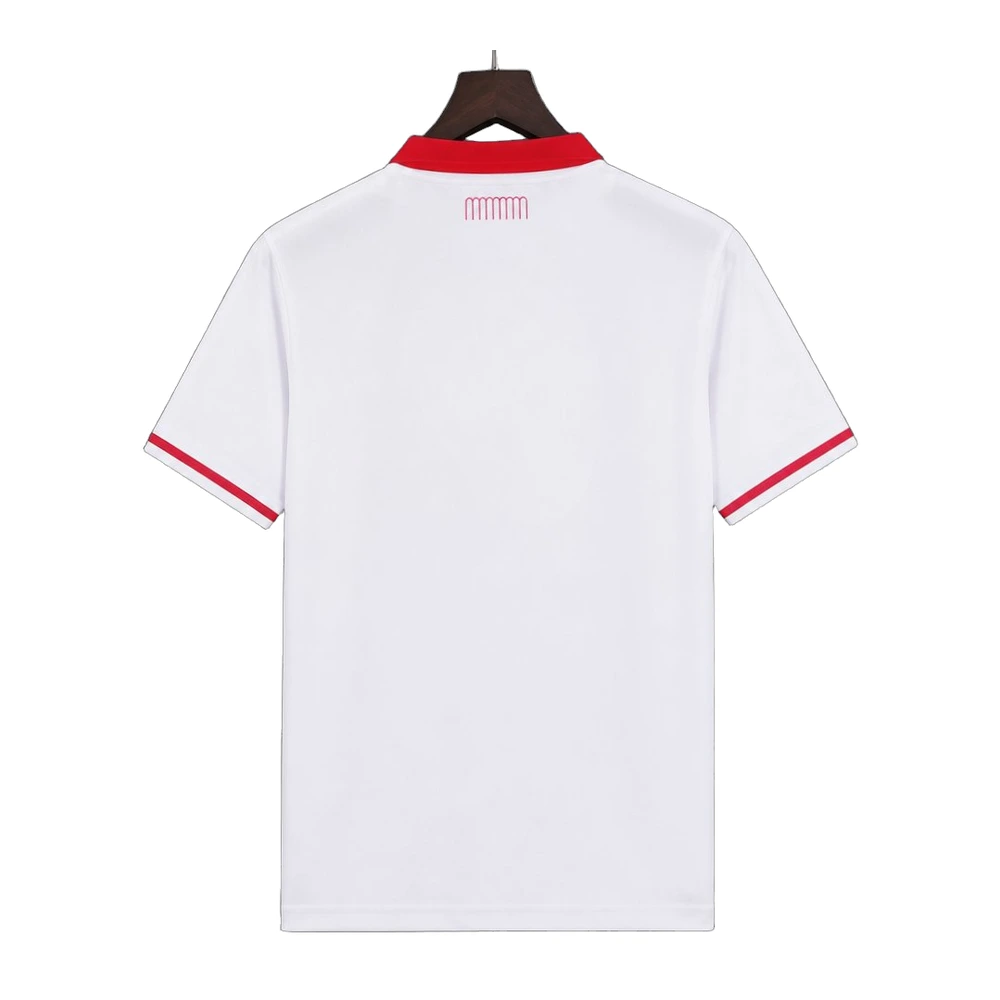
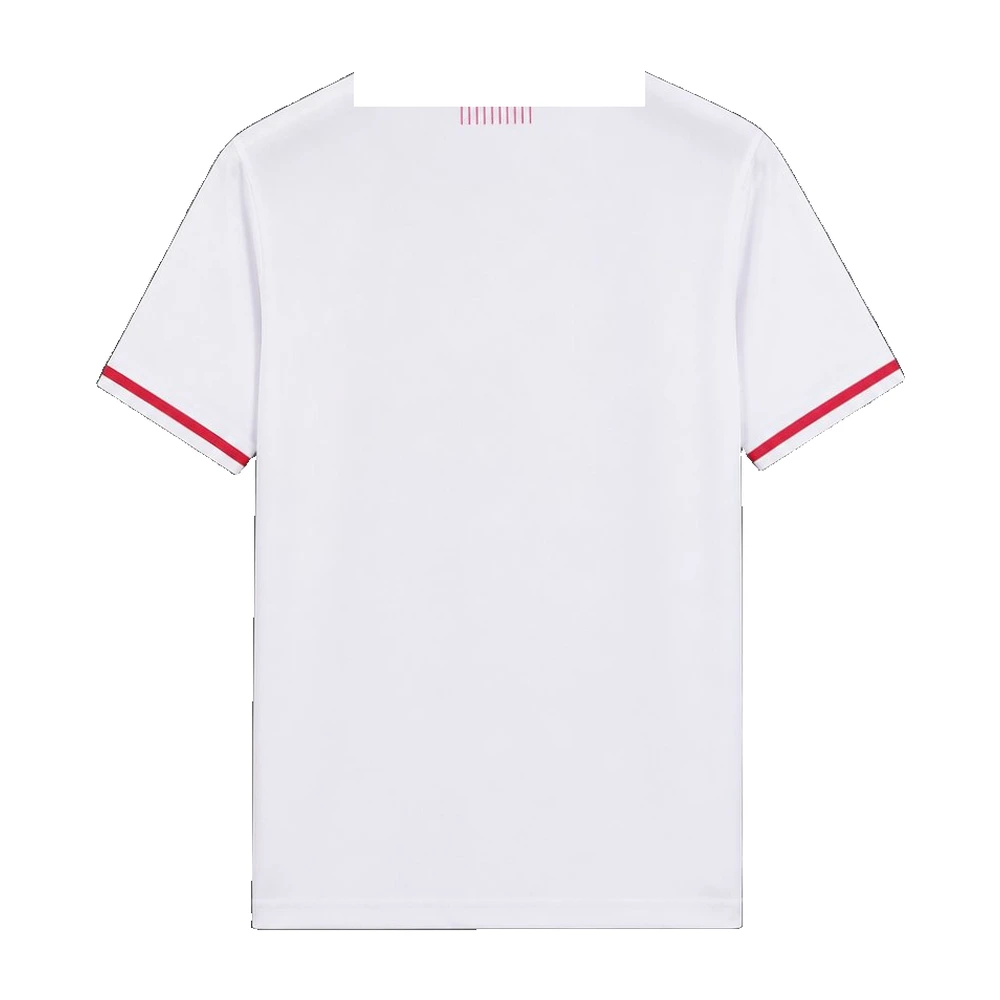
Ajoute la photo du dos pour 20 maillots qui n'en avaient qu'une, corrige 4 photos avec cintre/mannequin visible
Recherche des vraies photos du dos sur Yupoo pour : Argentine Extérieur 2006,
Liverpool Domicile 2005, Arsenal Domicile 1992-94, FC Porto (Domicile 25-26,
Domicile et Extérieur 26-27), Inter Miami Third, Ajax Domicile, Suède
(Domicile/Extérieur), Costa Rica, Danemark, Italie Extérieur, Sénégal
Extérieur, Hongrie Extérieur, Qatar, Chili, Venezuela, FC Copenhague,
FC Magdeburg.

Toutes les images (dont les 4 corrigées la session précédente : AS Monaco,
Wrexham, Sénégal Domicile, Norvège Third) sont retraitées pour supprimer
tout cintre ou mannequin visible, en ne conservant que le maillot avec son
col intact (détection géométrique du buste plutôt qu'une simple coupe
horizontale, qui abîmait le col).

Pas de photo du dos trouvée pour : Argentine Domicile 2006, Liverpool
Extérieur 1996-97 (manches longues), Japon Domicile 1993, Nouvelle-Zélande
Domicile 26-27, Corinthians Domicile 26-27. Émirats arabes unis Extérieur
26-27 retiré de la tentative d'ajout : seule photo dispo montre un
mannequin à bras articulés impossible à nettoyer proprement.

diff --git a/index.html b/index.html
@@ -1441,16 +1441,16 @@ const products = [
   { id:201, club:'Santos FC',             name:'Maillot Rétro',    season:'2011-2012', league:'Vintage', type:'vintage', emoji:'⚽', mainColor:'#FFFFFF', accentColor:'#000000', flocageColor:'#000000', frontImage:'images/santos-retro-1.jpg', carouselImages:['images/santos-retro-1.jpg','images/santos-retro-2.webp'] },
   /* ===== Soldes lot 8 : VINTAGE ===== */
   { id:505, club:'Argentine',             name:'Maillot Domicile', season:'2006', league:'Vintage', type:'vintage', emoji:'🇦🇷', mainColor:'#7BAFD4', accentColor:'#FFFFFF', stripeColor:'#FFFFFF', flocageColor:'#1A1A2E', frontImage:'images/argentine-home-2006-1.webp', carouselImages:['images/argentine-home-2006-1.webp'] },
-  { id:506, club:'Argentine',             name:'Maillot Extérieur', season:'2006', league:'Vintage', type:'vintage', emoji:'🇦🇷', mainColor:'#1B2A5A', accentColor:'#7BAFD4', flocageColor:'#FFFFFF', frontImage:'images/argentine-ext-2006-1.webp', carouselImages:['images/argentine-ext-2006-1.webp'] },
+  { id:506, club:'Argentine',             name:'Maillot Extérieur', season:'2006', league:'Vintage', type:'vintage', emoji:'🇦🇷', mainColor:'#1B2A5A', accentColor:'#7BAFD4', flocageColor:'#FFFFFF', frontImage:'images/argentine-ext-2006-1.webp', carouselImages:['images/argentine-ext-2006-1.webp','images/argentine-ext-2006-2.webp'] },
   { id:507, club:'Allemagne',             name:'Maillot Domicile', season:'2006', league:'Vintage', type:'vintage', emoji:'🇩🇪', mainColor:'#FFFFFF', accentColor:'#111111', flocageColor:'#111111', frontImage:'images/allemagne-home-2006-1.webp', carouselImages:['images/allemagne-home-2006-1.webp','images/allemagne-home-2006-2.webp'] },
   { id:508, club:'Allemagne',             name:'Maillot Extérieur', season:'1990', league:'Vintage', type:'vintage', emoji:'🇩🇪', mainColor:'#0E9E7E', accentColor:'#FFFFFF', flocageColor:'#FFFFFF', frontImage:'images/allemagne-ext-1990-1.webp', carouselImages:['images/allemagne-ext-1990-1.webp','images/allemagne-ext-1990-2.webp'] },
-  { id:509, club:'Liverpool',             name:'Maillot Domicile', season:'2005', league:'Vintage', type:'vintage', emoji:'⚽', mainColor:'#C8102E', accentColor:'#C9A227', flocageColor:'#FFFFFF', frontImage:'images/liverpool-istanbul-2005-1.webp', carouselImages:['images/liverpool-istanbul-2005-1.webp'] },
+  { id:509, club:'Liverpool',             name:'Maillot Domicile', season:'2005', league:'Vintage', type:'vintage', emoji:'⚽', mainColor:'#C8102E', accentColor:'#C9A227', flocageColor:'#FFFFFF', frontImage:'images/liverpool-istanbul-2005-1.webp', carouselImages:['images/liverpool-istanbul-2005-1.webp','images/liverpool-istanbul-2005-2.webp'] },
   { id:510, club:'Liverpool',             name:'Maillot Domicile', season:'1995-96', league:'Vintage', type:'vintage', emoji:'⚽', mainColor:'#C8102E', accentColor:'#FFFFFF', flocageColor:'#FFFFFF', frontImage:'images/liverpool-home-9596-1.webp', carouselImages:['images/liverpool-home-9596-1.webp','images/liverpool-home-9596-6.webp'] },
   { id:511, club:'Liverpool',             name:'Maillot Extérieur', season:'1995-96', league:'Vintage', type:'vintage', emoji:'⚽', mainColor:'#FFFFFF', accentColor:'#0E6E5E', flocageColor:'#0E6E5E', frontImage:'images/liverpool-ext-9596-1.webp', carouselImages:['images/liverpool-ext-9596-1.webp','images/liverpool-ext-9596-3.webp'] },
   { id:513, club:'Liverpool',             name:'Maillot Extérieur', season:'2000-01', league:'Vintage', type:'vintage', emoji:'⚽', mainColor:'#F5A623', accentColor:'#1B2A5A', flocageColor:'#1B2A5A', frontImage:'images/liverpool-ext-0001-1.webp', carouselImages:['images/liverpool-ext-0001-1.webp','images/liverpool-ext-0001-6.webp'] },
   { id:514, club:'Liverpool',             name:'Maillot Extérieur', season:'1996-97', league:'Vintage', type:'vintage', emoji:'⚽', mainColor:'#EDE3D0', accentColor:'#7A1F2B', flocageColor:'#7A1F2B', hasLongSleeve:true, frontImage:'images/liverpool-ext-9697ls-1.webp', carouselImages:['images/liverpool-ext-9697ls-1.webp'] },
   { id:515, club:'Manchester United',     name:'Maillot Extérieur', season:'1990-92', league:'Vintage', type:'vintage', emoji:'⚽', mainColor:'#D6E4F5', accentColor:'#1B2A5A', flocageColor:'#1B2A5A', frontImage:'images/manutd-ext-9092-1.webp', carouselImages:['images/manutd-ext-9092-1.webp','images/manutd-ext-9092-3.webp'] },
-  { id:516, club:'Arsenal',               name:'Maillot Domicile', season:'1992-94', league:'Vintage', type:'vintage', emoji:'⚽', mainColor:'#E4022D', accentColor:'#1B2A5A', flocageColor:'#FFFFFF', frontImage:'images/arsenal-home-9294-1.webp', carouselImages:['images/arsenal-home-9294-1.webp'] },
+  { id:516, club:'Arsenal',               name:'Maillot Domicile', season:'1992-94', league:'Vintage', type:'vintage', emoji:'⚽', mainColor:'#E4022D', accentColor:'#1B2A5A', flocageColor:'#FFFFFF', frontImage:'images/arsenal-home-9294-1.webp', carouselImages:['images/arsenal-home-9294-1.webp','images/arsenal-home-9294-2.webp'] },
   { id:517, club:'Japon',                 name:'Maillot Domicile', season:'1993', league:'Vintage', type:'vintage', emoji:'🇯🇵', mainColor:'#1B2FA8', accentColor:'#FFFFFF', flocageColor:'#FFFFFF', hasLongSleeve:true, frontImage:'images/japon-home-1993ls-1.webp', carouselImages:['images/japon-home-1993ls-1.webp'] },
   { id:2,  club:'Manchester City',        name:'Maillot Domicile', season:'2026-27', league:'Premier League', type:'standard', emoji:'👕', mainColor:'#6CABDD', accentColor:'#FFFFFF', flocageColor:'#FFFFFF', frontImage:'images/mc-home-1.jpg', carouselImages:['images/mc-home-1.jpg','images/mc-home-9.jpg'] },
   { id:368, club:'Manchester City',        name:'Maillot Domicile', season:'2025-26', league:'Premier League', type:'standard', emoji:'👕', mainColor:'#6CABDD', accentColor:'#FFFFFF', flocageColor:'#FFFFFF', frontImage:'images/mancity-home-2526-1.webp', carouselImages:['images/mancity-home-2526-1.webp','images/mancity-home-2526-2.webp'] },
@@ -1516,7 +1516,7 @@ const products = [
   { id:930, club:'Malaga', name:'Maillot Third', season:'2026-27', league:'Liga', type:'standard', emoji:'👕', mainColor:'#111111', accentColor:'#9B2FA6', flocageColor:'#2FC9A6', frontImage:'images/malaga-3rd-2627-1.webp', carouselImages:['images/malaga-3rd-2627-1.webp','images/malaga-3rd-2627-2.webp'] },
   { id:931, club:'Malaga', name:'Maillot Domicile', season:'2025-26', league:'Liga', type:'standard', emoji:'👕', mainColor:'#8FCBEA', accentColor:'#FFFFFF', flocageColor:'#1A2E7A', frontImage:'images/malaga-home-2526-1.webp', carouselImages:['images/malaga-home-2526-1.webp','images/malaga-home-2526-2.webp'] },
   { id:932, club:'Malaga', name:'Maillot Extérieur', season:'2025-26', league:'Liga', type:'standard', emoji:'👕', mainColor:'#111111', accentColor:'#E4179E', flocageColor:'#E4179E', frontImage:'images/malaga-ext-2526-1.webp', carouselImages:['images/malaga-ext-2526-1.webp','images/malaga-ext-2526-2.webp'] },
-  { id:499, club:'FC Porto',               name:'Maillot Domicile',  season:'2025-26', league:'Liga Portugal',  type:'standard', emoji:'👕', mainColor:'#003B8E', accentColor:'#FFFFFF', stripeColor:'#FFFFFF', flocageColor:'#FFFFFF', frontImage:'images/porto-home-2526-1.webp', carouselImages:['images/porto-home-2526-1.webp'] },
+  { id:499, club:'FC Porto',               name:'Maillot Domicile',  season:'2025-26', league:'Liga Portugal',  type:'standard', emoji:'👕', mainColor:'#003B8E', accentColor:'#FFFFFF', stripeColor:'#FFFFFF', flocageColor:'#FFFFFF', frontImage:'images/porto-home-2526-1.webp', carouselImages:['images/porto-home-2526-1.webp','images/porto-home-2526-2.webp'] },
   { id:500, club:'FC Porto',               name:'Maillot Third',     season:'2025-26', league:'Liga Portugal',  type:'standard', emoji:'👕', mainColor:'#F2EFE6', accentColor:'#003B8E', flocageColor:'#003B8E', frontImage:'images/porto-3rd-2526-1.webp', carouselImages:['images/porto-3rd-2526-1.webp','images/porto-3rd-2526-2.webp'] },
   { id:501, club:'FC Porto',               name:'Maillot Fourth',    season:'2025-26', league:'Liga Portugal',  type:'standard', emoji:'👕', mainColor:'#1B2A4A', accentColor:'#C9A227', flocageColor:'#C9A227', frontImage:'images/porto-4th-2526-1.webp', carouselImages:['images/porto-4th-2526-1.webp','images/porto-4th-2526-2.webp'] },
   { id:364, club:'Inter de Milan',         name:'Maillot Domicile', season:'2025-26', league:'Serie A',        type:'standard', emoji:'👕', mainColor:'#0A48A0', accentColor:'#000000', stripeColor:'#000000', flocageColor:'#E8B92E', frontImage:'images/inter-home-2526-1.webp', carouselImages:['images/inter-home-2526-1.webp','images/inter-home-2526-2.webp'] },
@@ -1577,7 +1577,7 @@ const products = [
   { id:557, club:'FC Barcelone',           name:'Maillot Third',     season:'2026-27', league:'Liga',          type:'standard', emoji:'👕', mainColor:'#3FD3C4', accentColor:'#1A2C7A', flocageColor:'#1A2C7A', frontImage:'images/barca-third-2627-1.webp', carouselImages:['images/barca-third-2627-1.webp','images/barca-third-2627-2.webp'] },
   { id:558, club:'États-Unis',             name:'Maillot Domicile',  season:'2026-27', league:'International', type:'standard', emoji:'🇺🇸', mainColor:'#F5F5F5', accentColor:'#B31942', flocageColor:'#0A3161', frontImage:'images/usa-dom-2627-1.webp', carouselImages:['images/usa-dom-2627-1.webp','images/usa-dom-2627-2.webp'] },
   { id:559, club:'États-Unis',             name:'Maillot Extérieur', season:'2026-27', league:'International', type:'standard', emoji:'🇺🇸', mainColor:'#0A1A3F', accentColor:'#B31942', flocageColor:'#FFFFFF', frontImage:'images/usa-ext-2627-1.webp', carouselImages:['images/usa-ext-2627-1.webp','images/usa-ext-2627-2.webp'] },
-  { id:562, club:'Inter Miami',            name:'Maillot Third',     season:'2026-27', league:'Reste du monde', subLeague:'MLS', type:'standard', emoji:'👕', mainColor:'#F5F5F5', accentColor:'#F7B5C4', flocageColor:'#111111', frontImage:'images/intermiami-3rd-2627-1.webp', carouselImages:['images/intermiami-3rd-2627-1.webp'] },
+  { id:562, club:'Inter Miami',            name:'Maillot Third',     season:'2026-27', league:'Reste du monde', subLeague:'MLS', type:'standard', emoji:'👕', mainColor:'#F5F5F5', accentColor:'#F7B5C4', flocageColor:'#111111', frontImage:'images/intermiami-3rd-2627-1.webp', carouselImages:['images/intermiami-3rd-2627-1.webp','images/intermiami-3rd-2627-2.webp'] },
   { id:564, club:'Tottenham',              name:'Maillot Third',     season:'2026-27', league:'Premier League', type:'standard', emoji:'👕', mainColor:'#6A2FA0', accentColor:'#FFFFFF', flocageColor:'#FFFFFF', frontImage:'images/tottenham-3rd-2627-1.webp', carouselImages:['images/tottenham-3rd-2627-1.webp','images/tottenham-3rd-2627-2.webp'] },
   { id:565, club:'Jamaïque',               name:'Maillot Domicile',  season:'2026-27', league:'International', type:'standard', emoji:'🇯🇲', mainColor:'#F4C94C', accentColor:'#1A1A2E', flocageColor:'#1A1A2E', frontImage:'images/jamaica-home-2627-1.webp', carouselImages:['images/jamaica-home-2627-1.webp','images/jamaica-home-2627-2.webp'] },
   { id:566, club:'Jamaïque',               name:'Maillot Extérieur', season:'2026-27', league:'International', type:'standard', emoji:'🇯🇲', mainColor:'#1A1A1A', accentColor:'#2E9E5B', flocageColor:'#F4C94C', frontImage:'images/jamaica-away-2627-1.webp', carouselImages:['images/jamaica-away-2627-1.webp','images/jamaica-away-2627-2.webp'] },
@@ -1621,9 +1621,9 @@ const products = [
   { id:11, club:'Benfica',                name:'Maillot Domicile', season:'2025-26', league:'Liga Portugal',  type:'standard', emoji:'👕', mainColor:'#E20B12', accentColor:'#FFFFFF', flocageColor:'#FFFFFF', frontImage:'images/benfica-home-2526-1.jpg', carouselImages:['images/benfica-home-2526-1.jpg','images/benfica-home-2526-2.jpg'] },
   { id:381, club:'Benfica',                name:'Maillot Extérieur', season:'2025-26', league:'Liga Portugal',  type:'standard', emoji:'👕', mainColor:'#F2EFE6', accentColor:'#E20B12', flocageColor:'#E20B12', frontImage:'images/benfica-ext-2526-1.jpg', carouselImages:['images/benfica-ext-2526-1.jpg','images/benfica-ext-2526-2.jpg'] },
   { id:384, club:'Benfica',                name:'Maillot Domicile', season:'2026-27', league:'Liga Portugal',  type:'standard', emoji:'👕', mainColor:'#E20B12', accentColor:'#FFFFFF', flocageColor:'#FFFFFF', frontImage:'images/benfica-home-2627-1.webp', carouselImages:['images/benfica-home-2627-1.webp','images/benfica-home-2627-2.webp'] },
-  { id:385, club:'FC Porto',               name:'Maillot Extérieur', season:'2026-27', league:'Liga Portugal',  type:'standard', emoji:'👕', mainColor:'#5E2751', accentColor:'#FFFFFF', flocageColor:'#FFFFFF', frontImage:'images/porto-ext-2627-1.webp', carouselImages:['images/porto-ext-2627-1.webp'] },
-  { id:12, club:'FC Porto',               name:'Maillot Domicile', season:'2026-27', league:'Liga Portugal',  type:'standard', emoji:'👕', mainColor:'#003B8E', accentColor:'#FFFFFF', flocageColor:'#FFFFFF', frontImage:'images/porto-home-26-1.jpg', carouselImages:['images/porto-home-26-1.jpg'] },
-  { id:378, club:'Ajax',                  name:'Maillot Domicile', season:'2026-27', league:'Eredivisie',    type:'standard', emoji:'👕', mainColor:'#FFFFFF', accentColor:'#E30613', flocageColor:'#111111', frontImage:'images/ajax-home-2627-1.webp', carouselImages:['images/ajax-home-2627-1.webp'] },
+  { id:385, club:'FC Porto',               name:'Maillot Extérieur', season:'2026-27', league:'Liga Portugal',  type:'standard', emoji:'👕', mainColor:'#5E2751', accentColor:'#FFFFFF', flocageColor:'#FFFFFF', frontImage:'images/porto-ext-2627-1.webp', carouselImages:['images/porto-ext-2627-1.webp','images/porto-ext-2627-2.webp'] },
+  { id:12, club:'FC Porto',               name:'Maillot Domicile', season:'2026-27', league:'Liga Portugal',  type:'standard', emoji:'👕', mainColor:'#003B8E', accentColor:'#FFFFFF', flocageColor:'#FFFFFF', frontImage:'images/porto-home-26-1.jpg', carouselImages:['images/porto-home-26-1.jpg','images/porto-home-26-2.webp'] },
+  { id:378, club:'Ajax',                  name:'Maillot Domicile', season:'2026-27', league:'Eredivisie',    type:'standard', emoji:'👕', mainColor:'#FFFFFF', accentColor:'#E30613', flocageColor:'#111111', frontImage:'images/ajax-home-2627-1.webp', carouselImages:['images/ajax-home-2627-1.webp','images/ajax-home-2627-2.webp'] },
   { id:386, club:'Feyenoord',              name:'Maillot Domicile', season:'2026-27', league:'Eredivisie',    type:'standard', emoji:'👕', mainColor:'#E30613', accentColor:'#FFFFFF', flocageColor:'#111111', frontImage:'images/feyenoord-home-2627-1.webp', carouselImages:['images/feyenoord-home-2627-1.webp','images/feyenoord-home-2627-2.webp'] },
   { id:388, club:'FC Utrecht',             name:'Maillot Extérieur', season:'2026-27', league:'Eredivisie',    type:'standard', emoji:'👕', mainColor:'#1C3D52', accentColor:'#FFFFFF', flocageColor:'#FFFFFF', frontImage:'images/utrecht-ext-2627-1.webp', carouselImages:['images/utrecht-ext-2627-1.webp','images/utrecht-ext-2627-2.webp'] },
   /* ===== INTERNATIONAL ===== */
@@ -1656,20 +1656,20 @@ const products = [
   { id:321, club:'Ghana',           name:'Maillot Extérieur', season:'2026-27', league:'International', type:'standard', emoji:'🇬🇭', mainColor:'#006B3F', accentColor:'#FCD116', flocageColor:'#FFFFFF', frontImage:'images/ghana-ext-26-1.webp', carouselImages:['images/ghana-ext-26-1.webp','images/ghana-ext-26-8.webp'] },
   { id:322, club:'Japon',           name:'Maillot Domicile',  season:'2026-27', league:'International', type:'standard', emoji:'🇯🇵', mainColor:'#003087', accentColor:'#FFFFFF', flocageColor:'#FFFFFF', frontImage:'images/japon-home-26-1.webp', carouselImages:['images/japon-home-26-1.webp','images/japon-home-26-7.webp'] },
   { id:323, club:'Japon',           name:'Maillot Extérieur', season:'2026-27', league:'International', type:'standard', emoji:'🇯🇵', mainColor:'#FFFFFF', accentColor:'#BC002D', flocageColor:'#BC002D', frontImage:'images/japon-ext-26-1.webp', carouselImages:['images/japon-ext-26-1.webp','images/japon-ext-26-8.webp'] },
-  { id:330, club:'Suède',           name:'Maillot Domicile',  season:'2026-27', league:'International', type:'standard', emoji:'🇸🇪', mainColor:'#FEDD00', accentColor:'#005BAC', flocageColor:'#005BAC', frontImage:'images/suede-home-26-1.webp', carouselImages:['images/suede-home-26-1.webp'] },
-  { id:331, club:'Suède',           name:'Maillot Extérieur', season:'2026-27', league:'International', type:'standard', emoji:'🇸🇪', mainColor:'#1A3EA8', accentColor:'#C9A227', flocageColor:'#C9A227', frontImage:'images/suede-ext-26-1.webp', carouselImages:['images/suede-ext-26-1.webp'] },
+  { id:330, club:'Suède',           name:'Maillot Domicile',  season:'2026-27', league:'International', type:'standard', emoji:'🇸🇪', mainColor:'#FEDD00', accentColor:'#005BAC', flocageColor:'#005BAC', frontImage:'images/suede-home-26-1.webp', carouselImages:['images/suede-home-26-1.webp','images/suede-home-26-2.webp'] },
+  { id:331, club:'Suède',           name:'Maillot Extérieur', season:'2026-27', league:'International', type:'standard', emoji:'🇸🇪', mainColor:'#1A3EA8', accentColor:'#C9A227', flocageColor:'#C9A227', frontImage:'images/suede-ext-26-1.webp', carouselImages:['images/suede-ext-26-1.webp','images/suede-ext-26-2.webp'] },
   { id:332, club:'Irak',            name:'Maillot Domicile',  season:'2026-27', league:'International', type:'standard', emoji:'🇮🇶', mainColor:'#FFFFFF', accentColor:'#111111', flocageColor:'#111111', frontImage:'images/irak-home-26-1.webp', carouselImages:['images/irak-home-26-1.webp','images/irak-home-26-2.webp'] },
   { id:333, club:'Irak',            name:'Maillot Extérieur', season:'2026-27', league:'International', type:'standard', emoji:'🇮🇶', mainColor:'#1E7A3D', accentColor:'#FFFFFF', flocageColor:'#FFFFFF', frontImage:'images/irak-ext-26-1.webp', carouselImages:['images/irak-ext-26-1.webp','images/irak-ext-26-2.webp'] },
   { id:335, club:'Colombie',        name:'Maillot Extérieur', season:'2026-27', league:'International', type:'standard', emoji:'🇨🇴', mainColor:'#1B9AC4', accentColor:'#1A2E7A', flocageColor:'#EFE32B', frontImage:'images/colombie-ext-26-1.webp', carouselImages:['images/colombie-ext-26-1.webp','images/colombie-ext-26-2.webp'] },
-  { id:336, club:'Costa Rica',      name:'Maillot Domicile',  season:'2026-27', league:'International', type:'standard', emoji:'🇨🇷', mainColor:'#D4122A', accentColor:'#16255A', flocageColor:'#FFFFFF', frontImage:'images/costarica-home-26-1.webp', carouselImages:['images/costarica-home-26-1.webp'] },
-  { id:337, club:'Danemark',        name:'Maillot Domicile',  season:'2026-27', league:'International', type:'standard', emoji:'🇩🇰', mainColor:'#C8102E', accentColor:'#FFFFFF', flocageColor:'#FFFFFF', frontImage:'images/danemark-home-26-1.webp', carouselImages:['images/danemark-home-26-1.webp'] },
+  { id:336, club:'Costa Rica',      name:'Maillot Domicile',  season:'2026-27', league:'International', type:'standard', emoji:'🇨🇷', mainColor:'#D4122A', accentColor:'#16255A', flocageColor:'#FFFFFF', frontImage:'images/costarica-home-26-1.webp', carouselImages:['images/costarica-home-26-1.webp','images/costarica-home-26-2.webp'] },
+  { id:337, club:'Danemark',        name:'Maillot Domicile',  season:'2026-27', league:'International', type:'standard', emoji:'🇩🇰', mainColor:'#C8102E', accentColor:'#FFFFFF', flocageColor:'#FFFFFF', frontImage:'images/danemark-home-26-1.webp', carouselImages:['images/danemark-home-26-1.webp','images/danemark-home-26-2.webp'] },
   { id:338, club:'Bosnie',          name:'Maillot Domicile',  season:'2026-27', league:'International', type:'standard', emoji:'🇧🇦', mainColor:'#1B2A6B', accentColor:'#FCD116', flocageColor:'#FCD116', frontImage:'images/bosnie-home-26-1.webp', carouselImages:['images/bosnie-home-26-1.webp','images/bosnie-home-26-2.webp'] },
   { id:340, club:'Pays-Bas',        name:'Maillot Extérieur', season:'2026-27', league:'International', type:'standard', emoji:'🇳🇱', mainColor:'#FFFFFF', accentColor:'#FF6600', flocageColor:'#FF6600', frontImage:'images/paysbas-ext-26-1.webp', carouselImages:['images/paysbas-ext-26-1.webp','images/paysbas-ext-26-7.webp'] },
-  { id:341, club:'Italie',          name:'Maillot Extérieur', season:'2026-27', league:'International', type:'standard', emoji:'🇮🇹', mainColor:'#EDEFF2', accentColor:'#1B2A5A', flocageColor:'#1B2A5A', frontImage:'images/italie-ext-26-1.webp', carouselImages:['images/italie-ext-26-1.webp'] },
-  { id:342, club:'Sénégal',         name:'Maillot Extérieur', season:'2026-27', league:'International', type:'standard', emoji:'🇸🇳', mainColor:'#009543', accentColor:'#FDEF42', flocageColor:'#FDEF42', frontImage:'images/senegal-ext-26-1.webp', carouselImages:['images/senegal-ext-26-1.webp'] },
+  { id:341, club:'Italie',          name:'Maillot Extérieur', season:'2026-27', league:'International', type:'standard', emoji:'🇮🇹', mainColor:'#EDEFF2', accentColor:'#1B2A5A', flocageColor:'#1B2A5A', frontImage:'images/italie-ext-26-1.webp', carouselImages:['images/italie-ext-26-1.webp','images/italie-ext-26-2.webp'] },
+  { id:342, club:'Sénégal',         name:'Maillot Extérieur', season:'2026-27', league:'International', type:'standard', emoji:'🇸🇳', mainColor:'#009543', accentColor:'#FDEF42', flocageColor:'#FDEF42', frontImage:'images/senegal-ext-26-1.webp', carouselImages:['images/senegal-ext-26-1.webp','images/senegal-ext-26-2.webp'] },
   { id:389, club:'Croatie',         name:'Maillot Extérieur', season:'2026-27', league:'International', type:'standard', emoji:'🇭🇷', mainColor:'#1E4CC7', accentColor:'#E20A17', flocageColor:'#FFFFFF', frontImage:'images/croatie-ext-2627-1.webp', carouselImages:['images/croatie-ext-2627-1.webp','images/croatie-ext-2627-6.webp'] },
   { id:390, club:'Turquie',         name:'Maillot Extérieur', season:'2026-27', league:'International', type:'standard', emoji:'🇹🇷', mainColor:'#FFFFFF', accentColor:'#E30A17', flocageColor:'#E30A17', frontImage:'images/turquie-ext-2627-1.webp', carouselImages:['images/turquie-ext-2627-1.webp','images/turquie-ext-2627-2.webp'] },
-  { id:448, club:'Hongrie',         name:'Maillot Extérieur', season:'2026-27', league:'International', type:'standard', emoji:'🇭🇺', mainColor:'#FFFFFF', accentColor:'#1B7A4B', flocageColor:'#C8102E', frontImage:'images/hongrie-ext-2627-1.webp', carouselImages:['images/hongrie-ext-2627-1.webp'] },
+  { id:448, club:'Hongrie',         name:'Maillot Extérieur', season:'2026-27', league:'International', type:'standard', emoji:'🇭🇺', mainColor:'#FFFFFF', accentColor:'#1B7A4B', flocageColor:'#C8102E', frontImage:'images/hongrie-ext-2627-1.webp', carouselImages:['images/hongrie-ext-2627-1.webp','images/hongrie-ext-2627-2.webp'] },
   { id:449, club:'Pologne',         name:'Maillot Domicile',  season:'2026-27', league:'International', type:'standard', emoji:'🇵🇱', mainColor:'#FFFFFF', accentColor:'#DC143C', flocageColor:'#DC143C', frontImage:'images/pologne-home-2627-1.webp', carouselImages:['images/pologne-home-2627-1.webp','images/pologne-home-2627-2.webp'] },
   { id:450, club:'Pologne',         name:'Maillot Extérieur', season:'2026-27', league:'International', type:'standard', emoji:'🇵🇱', mainColor:'#C8102E', accentColor:'#FFFFFF', flocageColor:'#FFFFFF', frontImage:'images/pologne-ext-2627-1.webp', carouselImages:['images/pologne-ext-2627-1.webp','images/pologne-ext-2627-2.webp'] },
   { id:451, club:'Nigéria',         name:'Maillot Domicile',  season:'2026-27', league:'International', type:'standard', emoji:'🇳🇬', mainColor:'#008751', accentColor:'#FFFFFF', flocageColor:'#FFFFFF', frontImage:'images/nigeria-home-2627-1.webp', carouselImages:['images/nigeria-home-2627-1.webp','images/nigeria-home-2627-3.webp'] },
@@ -1677,13 +1677,13 @@ const products = [
   { id:453, club:'Nigéria',         name:'Maillot Domicile',  season:'2024-25', league:'International', type:'standard', emoji:'🇳🇬', mainColor:'#FFFFFF', accentColor:'#008751', flocageColor:'#008751', frontImage:'images/nigeria-home-2425-1.webp', carouselImages:['images/nigeria-home-2425-1.webp','images/nigeria-home-2425-2.webp'] },
   { id:454, club:'Afrique du Sud',  name:'Maillot Domicile',  season:'2026-27', league:'International', type:'standard', emoji:'🇿🇦', mainColor:'#FFB612', accentColor:'#007A4D', flocageColor:'#007A4D', frontImage:'images/afriquesud-home-2627-1.webp', carouselImages:['images/afriquesud-home-2627-1.webp','images/afriquesud-home-2627-2.webp'] },
   { id:455, club:'Afrique du Sud',  name:'Maillot Extérieur', season:'2026-27', league:'International', type:'standard', emoji:'🇿🇦', mainColor:'#1B4D3E', accentColor:'#FFB612', flocageColor:'#FFB612', frontImage:'images/afriquesud-ext-2627-1.webp', carouselImages:['images/afriquesud-ext-2627-1.webp','images/afriquesud-ext-2627-2.webp'] },
-  { id:456, club:'Qatar',           name:'Maillot Domicile',  season:'2026-27', league:'International', type:'standard', emoji:'🇶🇦', mainColor:'#8A1538', accentColor:'#FFFFFF', flocageColor:'#FFFFFF', frontImage:'images/qatar-home-2627-1.webp', carouselImages:['images/qatar-home-2627-1.webp'] },
+  { id:456, club:'Qatar',           name:'Maillot Domicile',  season:'2026-27', league:'International', type:'standard', emoji:'🇶🇦', mainColor:'#8A1538', accentColor:'#FFFFFF', flocageColor:'#FFFFFF', frontImage:'images/qatar-home-2627-1.webp', carouselImages:['images/qatar-home-2627-1.webp','images/qatar-home-2627-2.webp'] },
   { id:458, club:'Émirats arabes unis', name:'Maillot Domicile', season:'2026-27', league:'International', type:'standard', emoji:'🇦🇪', mainColor:'#FFFFFF', accentColor:'#C8102E', flocageColor:'#C8102E', frontImage:'images/eau-home-2627-1.webp', carouselImages:['images/eau-home-2627-1.webp','images/eau-home-2627-2.webp'] },
   { id:459, club:'Émirats arabes unis', name:'Maillot Extérieur', season:'2026-27', league:'International', type:'standard', emoji:'🇦🇪', mainColor:'#C8102E', accentColor:'#FFFFFF', flocageColor:'#FFFFFF', frontImage:'images/eau-ext-2627-2.webp', carouselImages:['images/eau-ext-2627-2.webp'] },
   { id:460, club:'Pérou',           name:'Maillot Domicile',  season:'2026-27', league:'International', type:'standard', emoji:'🇵🇪', mainColor:'#FFFFFF', accentColor:'#D91023', flocageColor:'#D91023', frontImage:'images/perou-home-2627-1.webp', carouselImages:['images/perou-home-2627-1.webp','images/perou-home-2627-2.webp'] },
   { id:461, club:'Pérou',           name:'Maillot Extérieur', season:'2026-27', league:'International', type:'standard', emoji:'🇵🇪', mainColor:'#1A1A1A', accentColor:'#D91023', flocageColor:'#FFFFFF', frontImage:'images/perou-ext-2627-1.webp', carouselImages:['images/perou-ext-2627-1.webp','images/perou-ext-2627-2.webp'] },
-  { id:462, club:'Chili',           name:'Maillot Domicile',  season:'2026-27', league:'International', type:'standard', emoji:'🇨🇱', mainColor:'#D52B1E', accentColor:'#0039A6', flocageColor:'#FFFFFF', frontImage:'images/chili-home-2627-1.webp', carouselImages:['images/chili-home-2627-1.webp'] },
-  { id:463, club:'Venezuela',       name:'Maillot Domicile',  season:'2026-27', league:'International', type:'standard', emoji:'🇻🇪', mainColor:'#7A1B2B', accentColor:'#FFCE00', flocageColor:'#FFCE00', frontImage:'images/venezuela-home-2627-1.webp', carouselImages:['images/venezuela-home-2627-1.webp'] },
+  { id:462, club:'Chili',           name:'Maillot Domicile',  season:'2026-27', league:'International', type:'standard', emoji:'🇨🇱', mainColor:'#D52B1E', accentColor:'#0039A6', flocageColor:'#FFFFFF', frontImage:'images/chili-home-2627-1.webp', carouselImages:['images/chili-home-2627-1.webp','images/chili-home-2627-2.webp'] },
+  { id:463, club:'Venezuela',       name:'Maillot Domicile',  season:'2026-27', league:'International', type:'standard', emoji:'🇻🇪', mainColor:'#7A1B2B', accentColor:'#FFCE00', flocageColor:'#FFCE00', frontImage:'images/venezuela-home-2627-1.webp', carouselImages:['images/venezuela-home-2627-1.webp','images/venezuela-home-2627-2.webp'] },
   { id:464, club:'Nouvelle-Zélande', name:'Maillot Domicile', season:'2026-27', league:'International', type:'standard', emoji:'🇳🇿', mainColor:'#1A1A1A', accentColor:'#FFFFFF', flocageColor:'#FFFFFF', frontImage:'images/nvzelande-home-2627-1.webp', carouselImages:['images/nvzelande-home-2627-1.webp'] },
   { id:465, club:'Arabie Saoudite', name:'Maillot Domicile',  season:'2026-27', league:'International', type:'standard', emoji:'🇸🇦', mainColor:'#0C5C3D', accentColor:'#FFFFFF', flocageColor:'#FFFFFF', frontImage:'images/arabiesaoudite-home-2627-1.webp', carouselImages:['images/arabiesaoudite-home-2627-1.webp','images/arabiesaoudite-home-2627-2.webp'] },
   { id:980, club:'Albanie', name:'Maillot Domicile', season:'2026-27', league:'International', type:'standard', emoji:'🇦🇱', mainColor:'#E41E20', accentColor:'#1A1A1A', flocageColor:'#1A1A1A', frontImage:'images/albanie-home-2627-1.webp', carouselImages:['images/albanie-home-2627-1.webp','images/albanie-home-2627-2.webp'] },
@@ -1694,7 +1694,7 @@ const products = [
   { id:472, club:'Croatie',         name:'Maillot Domicile',  season:'2024-25', league:'International', type:'standard', emoji:'🇭🇷', mainColor:'#FFFFFF', accentColor:'#E20A17', stripeColor:'#E20A17', flocageColor:'#1B2A6B', frontImage:'images/croatie-home-2425-1.webp', carouselImages:['images/croatie-home-2425-1.webp','images/croatie-home-2425-2.webp'] },
   /* ===== RESTE DU MONDE (méta-ligue : subLeague = championnat) ===== */
   { id:414, club:'Inter Miami',     name:'Maillot Extérieur', season:'2026-27', league:'Reste du monde', subLeague:'MLS', type:'standard', emoji:'👕', mainColor:'#111111', accentColor:'#F7B5CD', flocageColor:'#F7B5CD', frontImage:'images/intermiami-ext-2627-1.webp', carouselImages:['images/intermiami-ext-2627-1.webp','images/intermiami-ext-2627-2.webp'] },
-  { id:423, club:'FC Copenhague',   name:'Maillot Domicile',  season:'2026-27', league:'Reste du monde', subLeague:'Danemark — Superliga', type:'standard', emoji:'👕', mainColor:'#FFFFFF', accentColor:'#1B4EA0', flocageColor:'#1B4EA0', frontImage:'images/copenhague-home-2627-1.webp', carouselImages:['images/copenhague-home-2627-1.webp'] },
+  { id:423, club:'FC Copenhague',   name:'Maillot Domicile',  season:'2026-27', league:'Reste du monde', subLeague:'Danemark — Superliga', type:'standard', emoji:'👕', mainColor:'#FFFFFF', accentColor:'#1B4EA0', flocageColor:'#1B4EA0', frontImage:'images/copenhague-home-2627-1.webp', carouselImages:['images/copenhague-home-2627-1.webp','images/copenhague-home-2627-2.webp'] },
   { id:988, club:'River Plate', name:'Maillot Domicile', season:'2026-27', league:'Reste du monde', subLeague:'Argentine — Primera División', type:'standard', emoji:'👕', mainColor:'#FFFFFF', accentColor:'#E4022D', flocageColor:'#111111', frontImage:'images/riverplate-home-2627-1.webp', carouselImages:['images/riverplate-home-2627-1.webp','images/riverplate-home-2627-2.webp'] },
   { id:428, club:'São Paulo FC',    name:'Maillot Extérieur', season:'2025-26', league:'Reste du monde', subLeague:'Brésil — Brasileirão', type:'standard', emoji:'👕', mainColor:'#E4022D', accentColor:'#111111', stripeColor:'#111111', flocageColor:'#FFFFFF', frontImage:'images/saopaulo-ext-2526-1.webp', carouselImages:['images/saopaulo-ext-2526-1.webp','images/saopaulo-ext-2526-6.webp'] },
   /* ===== 2ÈME DIVISION (méta-ligue : subLeague = championnat) ===== */
@@ -1704,7 +1704,7 @@ const products = [
   { id:432, club:'Stoke City',          name:'Maillot Domicile',  season:'2025-26', league:'2ème Division', subLeague:'Angleterre — Championship', type:'standard', emoji:'👕', mainColor:'#E03A3E', accentColor:'#FFFFFF', stripeColor:'#FFFFFF', flocageColor:'#FFFFFF', frontImage:'images/stoke-home-2526-1.webp', carouselImages:['images/stoke-home-2526-1.webp','images/stoke-home-2526-2.webp'] },
   { id:434, club:'Sheffield United',    name:'Maillot Domicile',  season:'2025-26', league:'2ème Division', subLeague:'Angleterre — Championship', type:'standard', emoji:'👕', mainColor:'#EC2227', accentColor:'#FFFFFF', stripeColor:'#FFFFFF', flocageColor:'#111111', frontImage:'images/sheffieldutd-home-2526-1.webp', carouselImages:['images/sheffieldutd-home-2526-1.webp','images/sheffieldutd-home-2526-2.webp'] },
   { id:435, club:'Wrexham',             name:'Maillot Third',     season:'2025-26', league:'2ème Division', subLeague:'Angleterre — Championship', type:'standard', emoji:'👕', mainColor:'#7FC8E8', accentColor:'#FFFFFF', flocageColor:'#16264A', frontImage:'images/wrexham-3rd-2526-1.webp', carouselImages:['images/wrexham-3rd-2526-1.webp','images/wrexham-3rd-2526-2.webp'] },
-  { id:437, club:'FC Magdeburg',        name:'Maillot Domicile',  season:'2025-26', league:'2ème Division', subLeague:'Allemagne — 2. Bundesliga', type:'standard', emoji:'👕', mainColor:'#1560BD', accentColor:'#FFFFFF', flocageColor:'#FFFFFF', frontImage:'images/magdeburg-home-2526-1.webp', carouselImages:['images/magdeburg-home-2526-1.webp'] },
+  { id:437, club:'FC Magdeburg',        name:'Maillot Domicile',  season:'2025-26', league:'2ème Division', subLeague:'Allemagne — 2. Bundesliga', type:'standard', emoji:'👕', mainColor:'#1560BD', accentColor:'#FFFFFF', flocageColor:'#FFFFFF', frontImage:'images/magdeburg-home-2526-1.webp', carouselImages:['images/magdeburg-home-2526-1.webp','images/magdeburg-home-2526-2.webp'] },
   { id:441, club:'Kaiserslautern',      name:'Maillot Extérieur', season:'2025-26', league:'2ème Division', subLeague:'Allemagne — 2. Bundesliga', type:'standard', emoji:'👕', mainColor:'#F2F2F2', accentColor:'#C8102E', flocageColor:'#C8102E', frontImage:'images/kaiserslautern-ext-2526-1.webp', carouselImages:['images/kaiserslautern-ext-2526-1.webp','images/kaiserslautern-ext-2526-2.webp'] },
   { id:442, club:'Holstein Kiel',       name:'Maillot Domicile',  season:'2024-25', league:'2ème Division', subLeague:'Allemagne — 2. Bundesliga', type:'standard', emoji:'👕', mainColor:'#1560BD', accentColor:'#E03A3E', flocageColor:'#FFFFFF', frontImage:'images/holsteinkiel-home-2425-1.webp', carouselImages:['images/holsteinkiel-home-2425-1.webp','images/holsteinkiel-home-2425-2.webp'] },
   { id:443, club:'VfL Bochum',          name:'Maillot Third',     season:'2025-26', league:'2ème Division', subLeague:'Allemagne — 2. Bundesliga', type:'standard', emoji:'👕', mainColor:'#C9C3DA', accentColor:'#16264A', flocageColor:'#16264A', frontImage:'images/bochum-3rd-2526-1.webp', carouselImages:['images/bochum-3rd-2526-1.webp','images/bochum-3rd-2526-2.webp'] },
